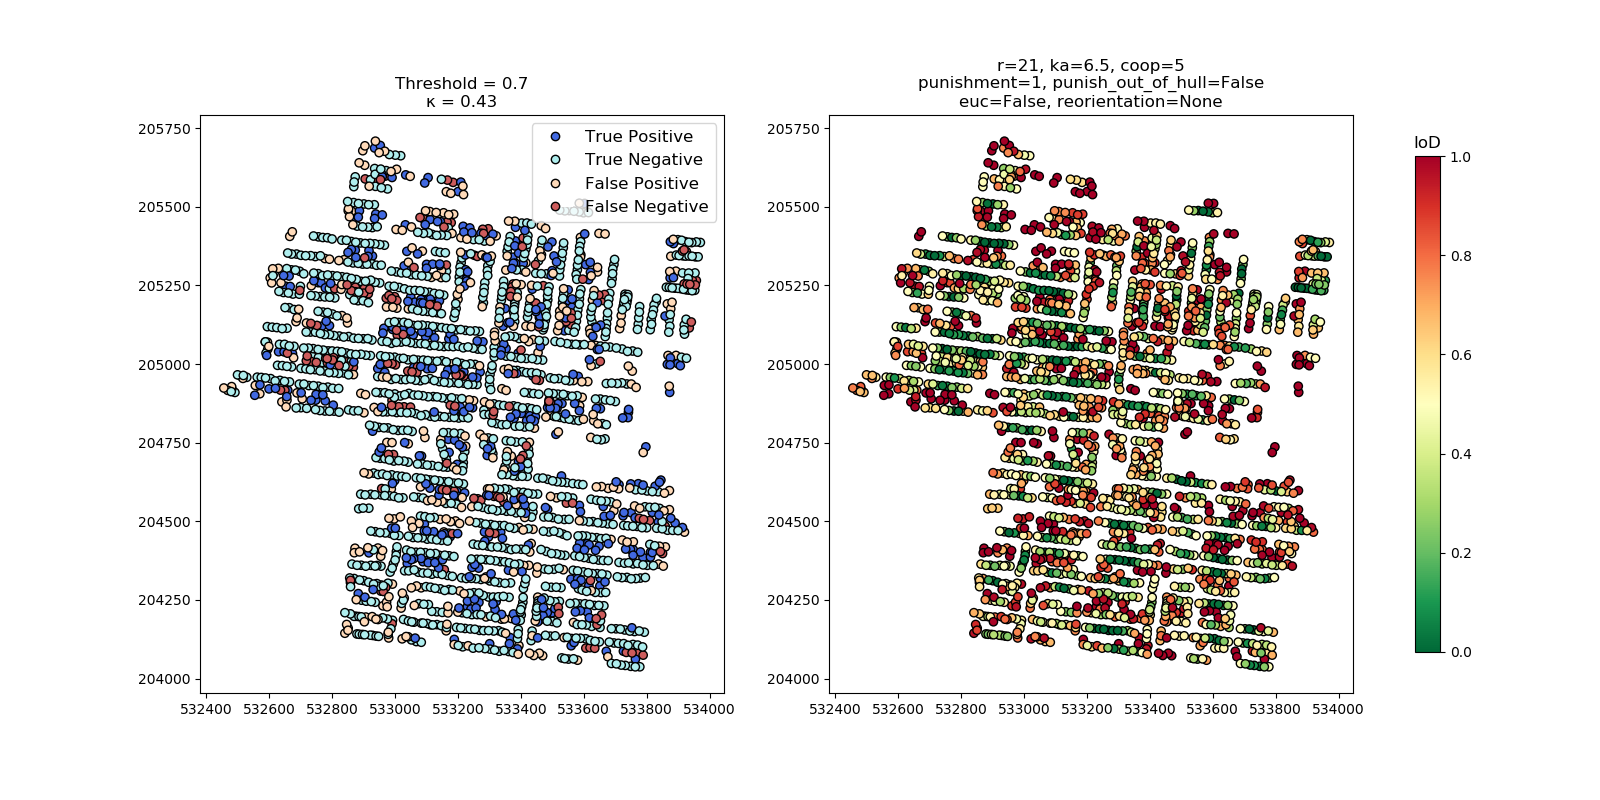
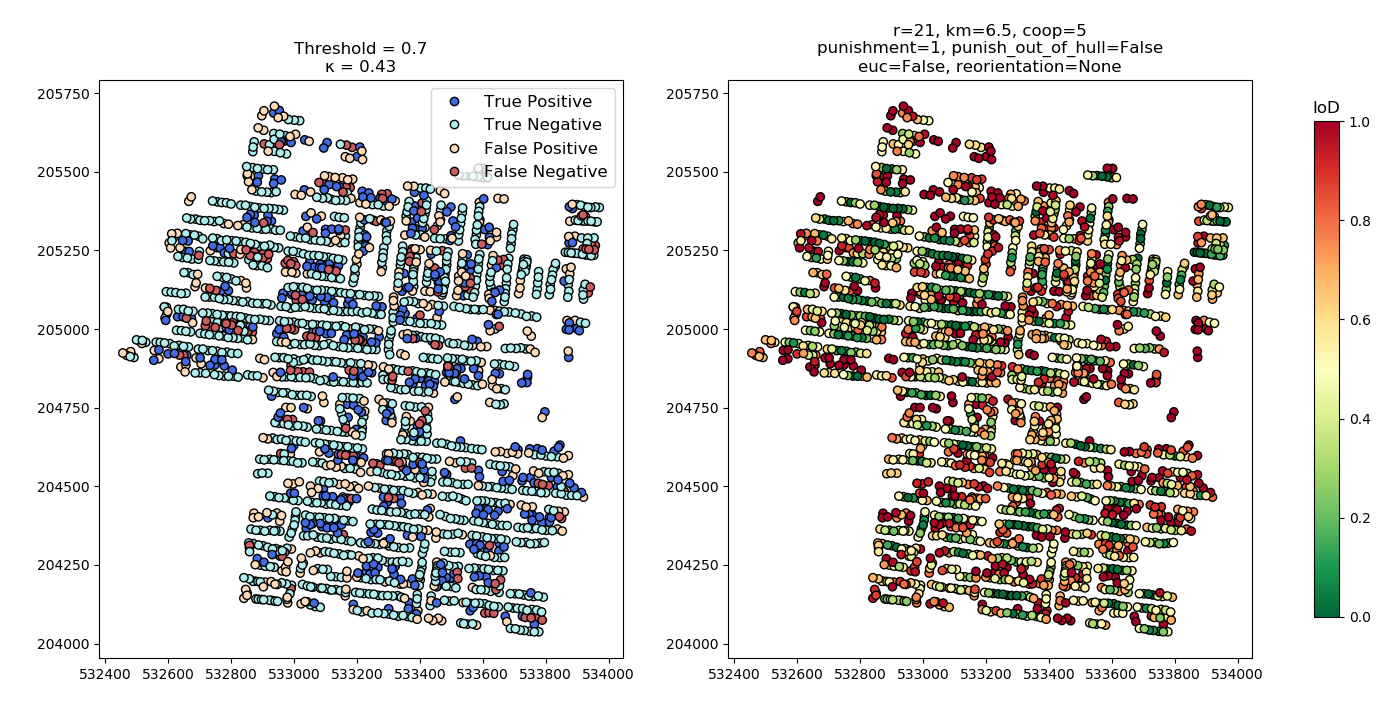
no message

diff --git a/building_reading.py b/building_reading.py
@@ -153,7 +153,7 @@ else:
     fig, ax = plt.subplots(1, 2, figsize=(16, 8))
     color_map = cm.get_cmap('RdYlGn_r')
     im1 = ax[1].scatter(pts[:, 0], pts[:, 1], c=scores, cmap=color_map, vmin=0, vmax=1, edgecolors='black')
-    ax[1].set_title(f'r={neighbor_search_dist}, ka={ka}, coop={coop}\n'
+    ax[1].set_title(f'r={neighbor_search_dist}, km={ka}, coop={coop}\n'
                     f'punishment={punishment}, punish_out_of_hull={punish_out_of_hull}\n'
                     f'euc={euc}, reorientation={reorientation}')
     ax[1].set_aspect('equal')
